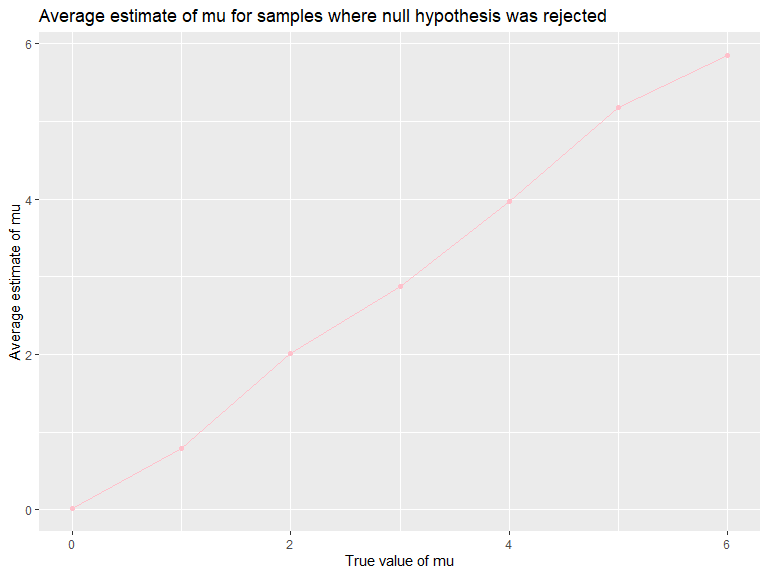
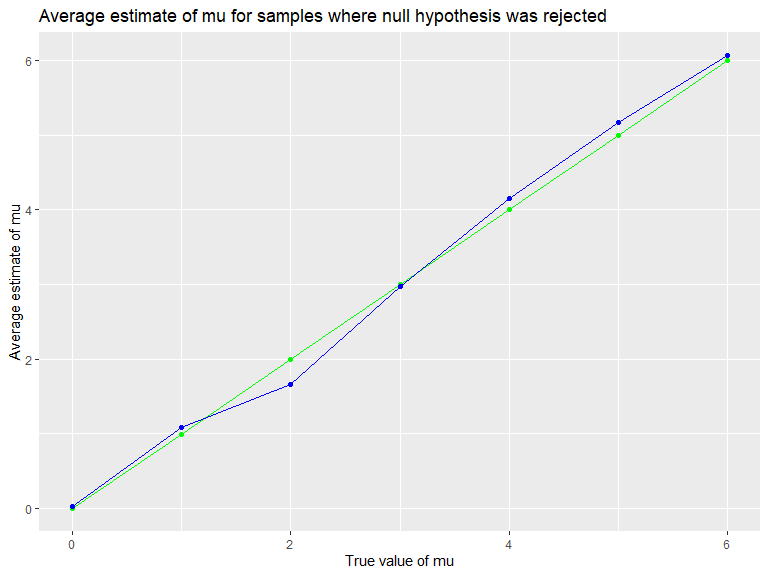
Descriptions added for plots for problem 3

diff --git a/p8105_hw5_mgw2144.md b/p8105_hw5_mgw2144.md
@@ -135,10 +135,9 @@ plot_1
 
 <img src="p8105_hw5_mgw2144_files/figure-gfm/unnamed-chunk-6-1.png" width="90%" />
 
-The graph of the association between effect size and power shows us that
-as the true mean or mu value increases, power also increases. There
-appears to be a strong positive association between effect size and
-power.
+There appears to be a non-linear association between effect size and
+power based on the graph. Each time that we run the simulated data the
+graph appears different, with a non-linear association each time.
 
 ## Plot 2: Average estimate of mu hat compared to true mu value
 
@@ -164,6 +163,11 @@ plot_2
 
 <img src="p8105_hw5_mgw2144_files/figure-gfm/unnamed-chunk-7-1.png" width="90%" />
 
+There is a very strong positive linear relationship between the true mu
+values and the average estimated mu values created from the simulation.
+This makes sense as when we run a higher number of samples, our average
+estimated means will mimic the true mean value.
+
 ## Plot 3: Avergate estimate of mu in samples where the null is rejected compared to the true mean value
 
 ``` r
@@ -174,10 +178,11 @@ plot_3_df =
   summarise(avg_mu_hat_rej = mean(mu_est))
 
 plot_3 =
-  plot_3_df %>%
-  ggplot(aes(x = mu, y = avg_mu_hat_rej)) +
-  geom_line(color = "pink") +
-  geom_point(color = "pink") +
+  ggplot() +
+  geom_line(data = plot_2_df, aes(x = mu, y = avg_mu_hat), color = "green")+
+  geom_point(data = plot_2_df, aes(x = mu, y = avg_mu_hat), color = "green")+
+  geom_line(data = plot_3_df, aes(x = mu, y = avg_mu_hat_rej), color = "blue") +
+  geom_point(data = plot_3_df, aes(x = mu, y = avg_mu_hat_rej), color = "blue") +
   labs(
     x = "True value of mu",
     y = "Average estimate of mu",
@@ -188,3 +193,9 @@ plot_3
 ```
 
 <img src="p8105_hw5_mgw2144_files/figure-gfm/unnamed-chunk-8-1.png" width="90%" />
+
+The sample average of mu hat across tests for which the null is rejected
+is approximately equal to the true value of mu. As we run more samples,
+the average values of the estimated mus more closely approximates the
+true mu values. The differences seen in the graph is due to random
+sampling variability in the results.
